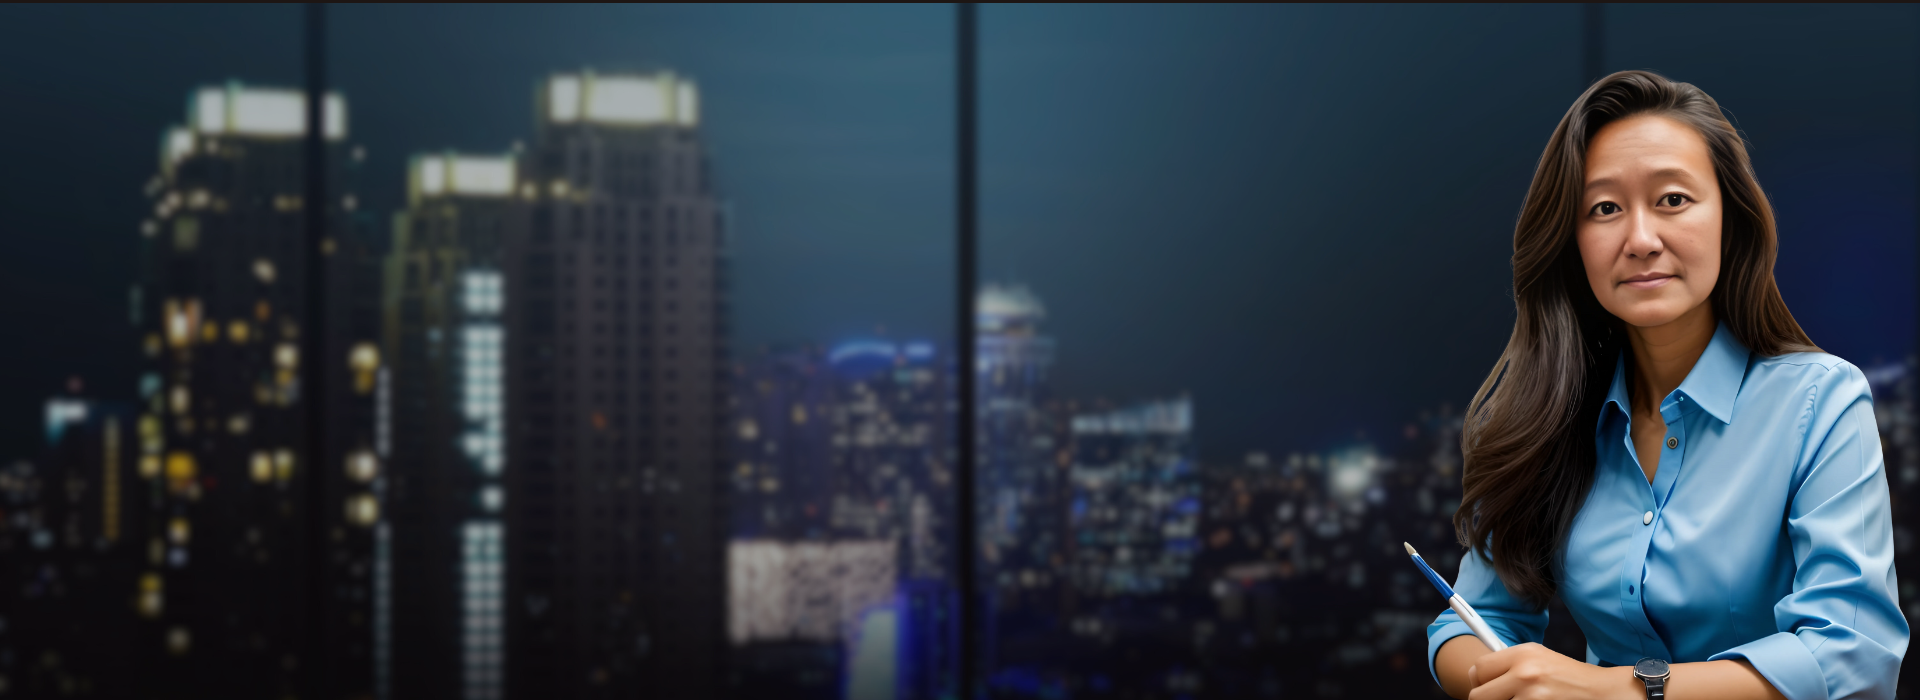
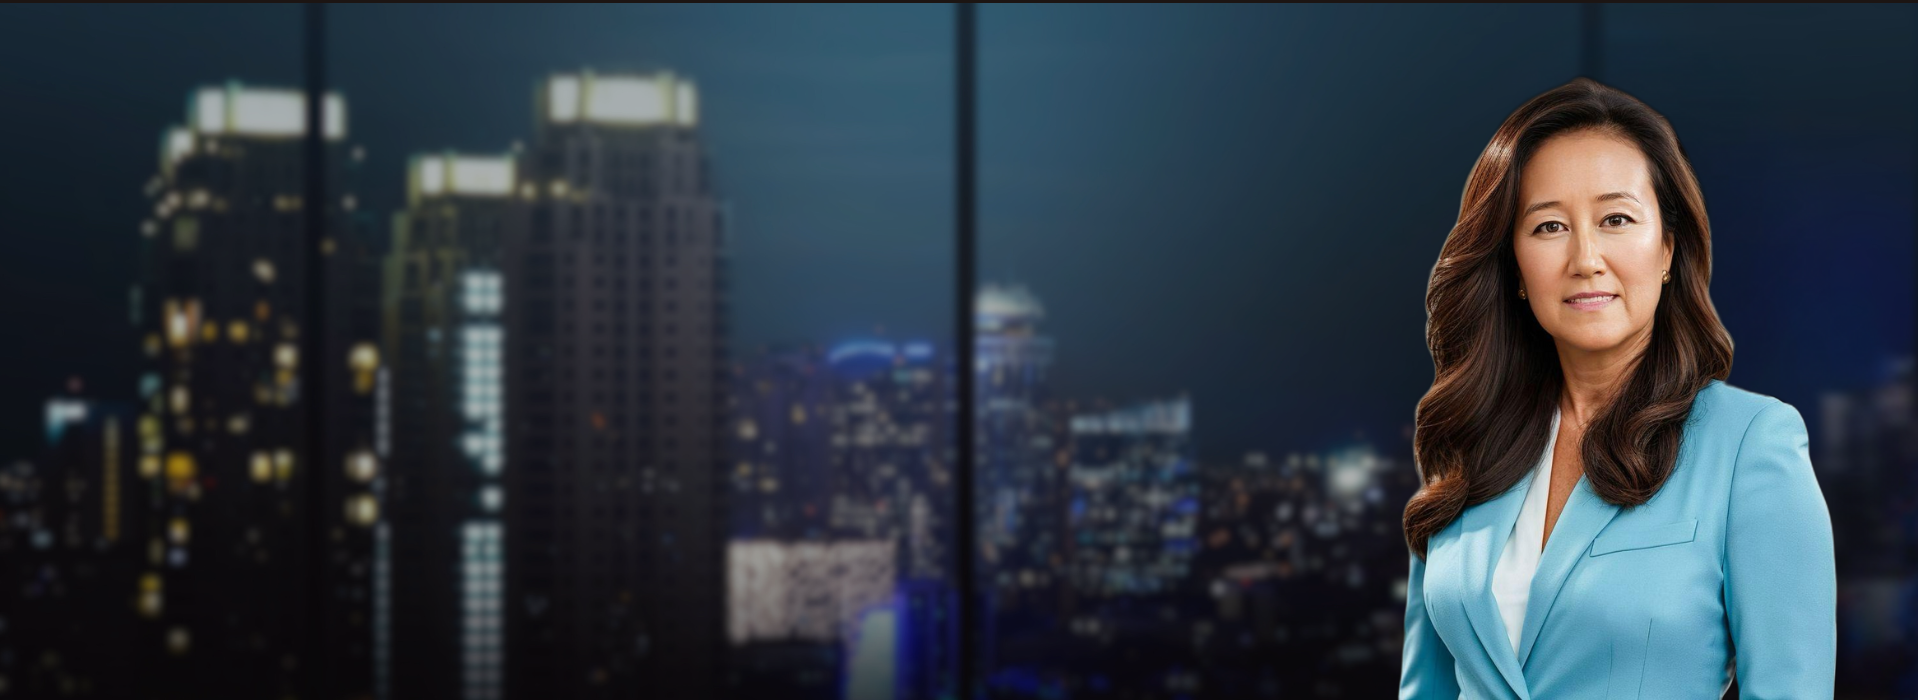
Update images header and about

Changed region(s): [[0.7188, 0.09, 1.0, 1.0]]

diff --git a/src/home/CorporateBusiness.jsx b/src/home/CorporateBusiness.jsx
@@ -9,9 +9,6 @@ import FooterTwo from "../component/footer/FooterTwo";
 import CallAction from "../elements/callaction/CallAction";
 import Accordion01 from "../elements/Accordion";
 import Helmet from "../component/common/Helmet";
-import corporate01 from "../assets/images/featured/corporate-01.jpg";
-import corporate02 from "../assets/images/featured/corporate-02.jpg";
-import corporate03 from "../assets/images/featured/corporate-03.jpg";
 import { FaChalkboardTeacher, FaShieldAlt, FaUmbrella } from "react-icons/fa";
 
 import {
@@ -19,7 +16,7 @@ import {
   FiCheck,
 } from "react-icons/fi";
 
-import about from "../assets/images/about/about.jpg";
+import about from "../assets/images/about/about2.jpg";
 import about2 from "../assets/images/about/about-3.png";
 
 const SlideList = [

diff --git a/src/elements/Contact.jsx b/src/elements/Contact.jsx
@@ -50,7 +50,7 @@ class Contact extends Component{
                                     </div>
                                     <div className="inner">
                                         <h4 className="title">Contato com número de telefone</h4>
-                                        <p><a href="tel:+1 7862337681">+1 (786) 233-7681</a></p>
+                                        <p><a href="tel:+1 7862337681">+1 (561) 560-2537</a></p>
                                         <p>Atendimento pelo WhatsApp</p>
                                     </div>
                                 </div>
